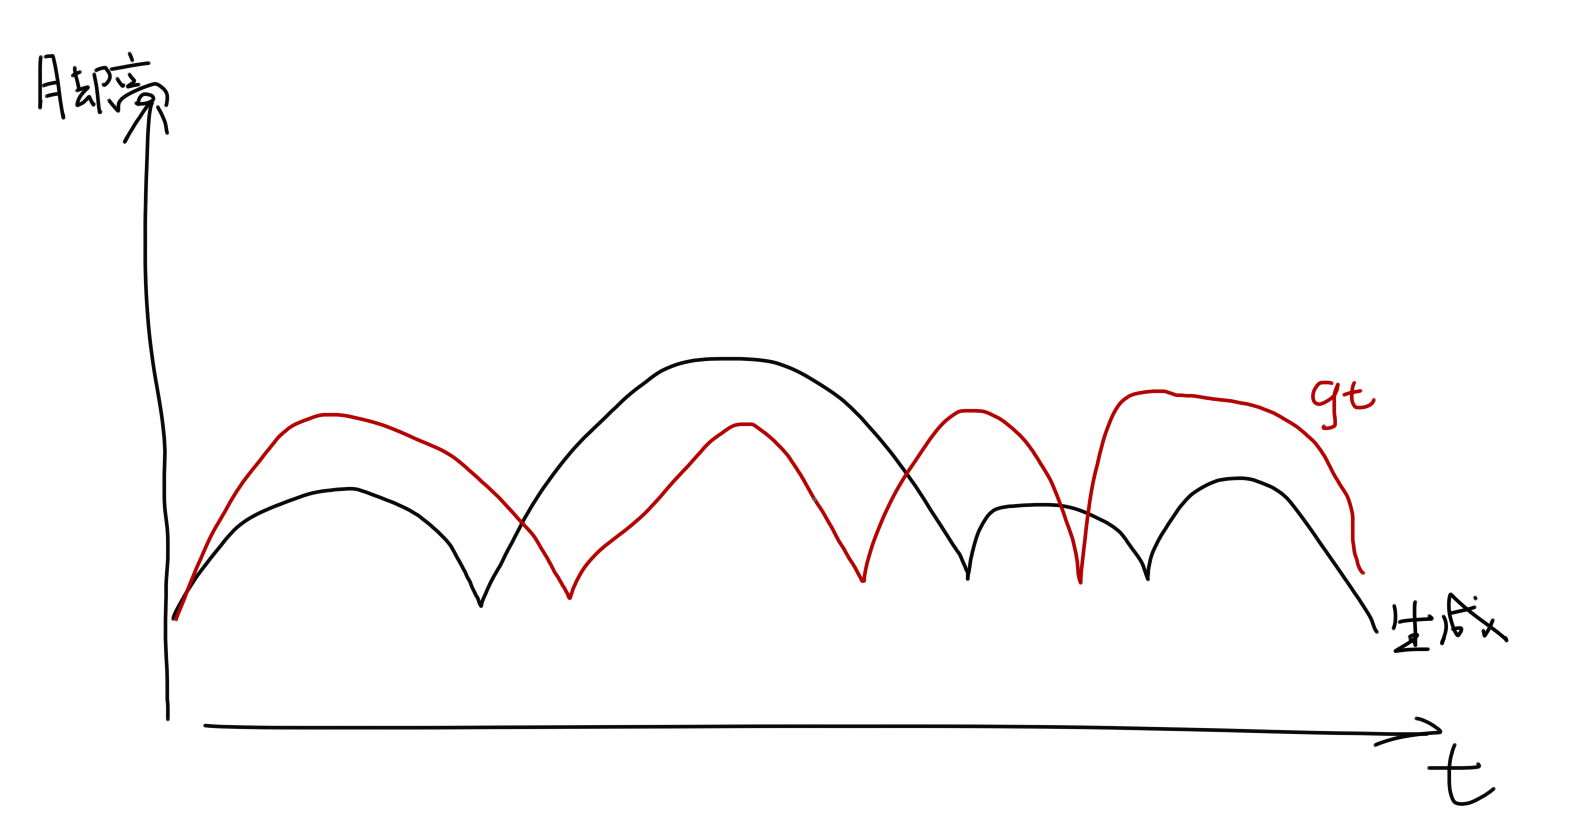
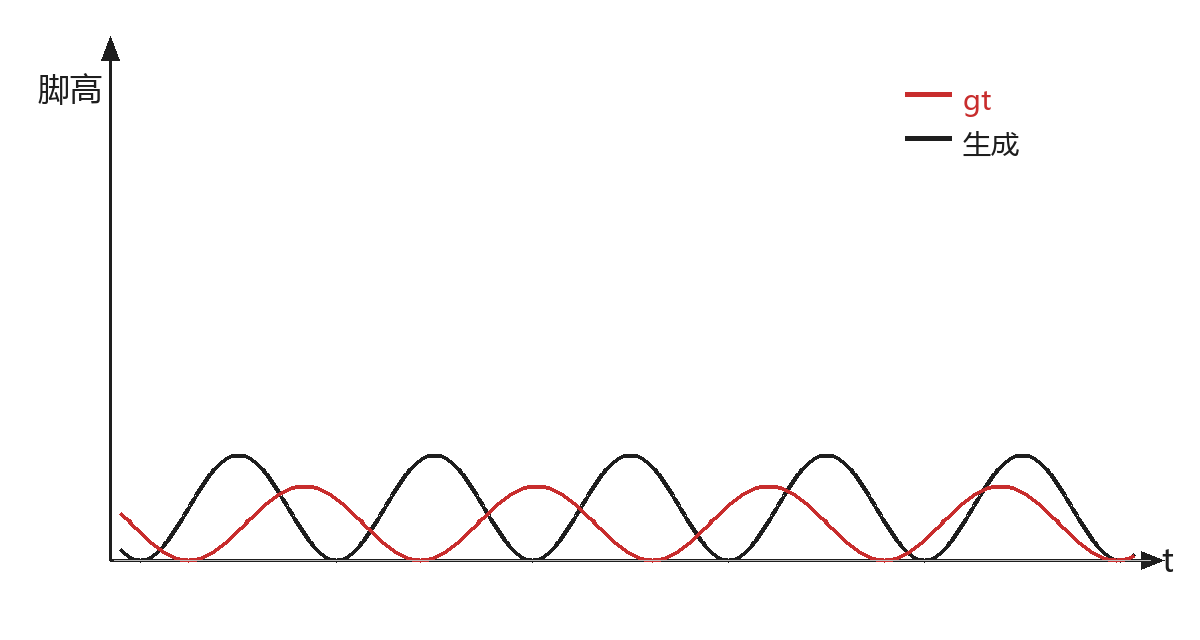
TriFactorHOI：脚高曲线示意图改为重绘版

diff --git a/docs/papers/trifactor-hoi.md b/docs/papers/trifactor-hoi.md
@@ -78,7 +78,7 @@
 - **为什么不直接用「生成结果 ↔ GT」**：直觉上拿生成结果和 GT 配对、让网络学「修到 GT」就行，但这两条轨迹的**步调经常对不上**——GT 什么时候抬脚、什么时候落脚，和生成结果并不一致（草图里红、黑两条脚高曲线的峰谷就是错开的）。拿这种对子训练，网络分不清是在「修脚」还是在「改步态」，容易把动作本身也一起改掉。
 - **想要的数据**：有滑动，但**步调一致**——只让网络学「脚放得准不准」，不学「动作该怎么重排」。
 
-![草图：红色是 GT、黑色是生成，两条脚高曲线的峰谷对不上](../../assets/foot-pair-sketch.png)
+![示意图：红色为 GT、黑色为生成，两者步频不同，脚高的峰谷逐渐错开](../../assets/foot-pair-sketch.png)
 
 - **做法：低噪声生成**
   - 先训一个只处理人体的辅助去噪器：HumanML3D，69,616 段训练 / 8,314 段验证，每段 120 帧；沿用 part-based 时空结构，去掉文本、物体、路点条件；损失额外加脚踝 / 脚尖位置、接触帧速度、脚尖高度。训完冻结，只用来造数据，不进 HOI 推理。
